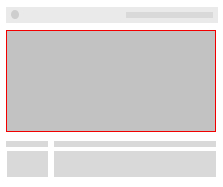
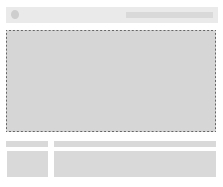
(admin ui):section creation part doing

Changed region(s): [[0.0269, 0.1604, 0.9686, 0.7219]]

diff --git a/frontend/src/admin/features/ui/formSchemas/BannerImages.jsx b/frontend/src/admin/features/ui/formSchemas/BannerImages.jsx
@@ -1,36 +1,69 @@
-import { useRef } from "react";
+import { useRef, useState } from "react";
 
-const BannerImages = () => {
+const BannerImages = ({ handleFormInput }) => {
   let inputRef = useRef(null);
   let [previews, setPreviews] = useState([]);
+  let [selectedPreview, setSelectedPreview] = useState(null);
 
   const triggerInput = () => {
     inputRef.current.click();
   };
   const fileChange = (e) => {
     let files = e.target.files;
-    setPreviews(() => {
-        Array.from(files)
-    })
+    let image_previews = Array.from(files).map((file) =>
+      URL.createObjectURL(file)
+    );
+    setPreviews((previews) => [...previews, ...image_previews]);
+    setSelectedPreview(image_previews[0]);
+    handleFormInput(e);
   };
   return (
-    <div className="flex-1">
+    <div className="flex flex-col gap-4 h-full">
       <input
         type="file"
         accept="image/*"
         multiple
         className="hidden"
         ref={inputRef}
+        name="backgroundImages"
         onChange={fileChange}
       />
-      <div className="h-full flex justify-center items-center border-3 border-dashed border-neutral-300 rounded-[.5rem] bg-neutral-200">
-        <button
-          className="a-text--button text-white bg-green-800"
-          onClick={triggerInput}
-        >
-          Add banner images for this section
-        </button>
+      <div className="flex h-[20rem] justify-center items-center border-3 border-dashed border-neutral-300 rounded-[.5rem] bg-neutral-200">
+        {selectedPreview ? (
+          <img
+            src={selectedPreview}
+            alt="preview image"
+            className="w-full h-full object-cover"
+          />
+        ) : (
+          <button
+            className="a-text--button text-white bg-green-800"
+            onClick={triggerInput}
+          >
+            Add banner images for this section
+          </button>
+        )}
       </div>
+      {selectedPreview && (
+        <div className="space-y-2">
+          <div className="a-text--label capitalize">Selected Banner Images</div>
+          <div className="flex flex-wrap items-center gap-2 bg-neutral-200 p-2">
+            {previews.map((preview, index) => (
+              <div className="relative">
+                <img
+                  src={preview}
+                  alt="banner images"
+                  className="w-[8rem] h-[8rem] object-cover hover:translate-x-[.2rem] transition-transform cursor-pointer"
+                  onClick={() => setSelectedPreview(preview)}
+                />
+                {preview === selectedPreview && (
+                  <div className="absolute inset-0 bg-black/40" />
+                )}
+              </div>
+            ))}
+          </div>
+        </div>
+      )}
     </div>
   );
 };

diff --git a/frontend/src/admin/features/ui/NewSection.jsx b/frontend/src/admin/features/ui/NewSection.jsx
@@ -7,14 +7,18 @@ import {
 import BannerForm from "./formSchemas/BannerForm";
 
 const NewSection = ({ config }) => {
-  let { section, handleSectionType, handleFormInput } = config;
+  let { section, handleSectionType, handleFormInput, createSection } = config;
   return (
-    <Accordion type="single" collapsible className="a-section--box !py-[.2rem]">
+    <Accordion
+      type="single"
+      collapsible
+      className="a-section--box !py-[.2rem] h-full"
+    >
       <AccordionItem value="item-1">
         <AccordionTrigger className="a-text--section">
           Add new home section
         </AccordionTrigger>
-        <AccordionContent className=" flex flex-col gap-[2.5rem] border p-4 rounded-[.5rem] mb-4">
+        <AccordionContent className="flex flex-col gap-[2.5rem] border p-4 rounded-[.5rem] mb-4">
           <div className="grid grid-cols-3 gap-4">
             <div className="space-y-1">
               <div className="a-text--label">Section type</div>
@@ -37,11 +41,18 @@ const NewSection = ({ config }) => {
             </div>
           </div>
 
-          {section?.section_type === "banner" ? (
+          {/* section form */}
+          {section?.section_type === "banner" && (
             <BannerForm section={section} handleFormInput={handleFormInput} />
-          ) : (
-            <></>
           )}
+
+          {/* submit button */}
+          <button
+            className="self-end a-text--button bg-[#0078d4] hover:bg-[#148ae5] transition-colors text-white"
+            onClick={createSection}
+          >
+            Create Section
+          </button>
         </AccordionContent>
       </AccordionItem>
     </Accordion>

diff --git a/frontend/src/admin/features/ui/useHomeUI.js b/frontend/src/admin/features/ui/useHomeUI.js
@@ -1,25 +1,37 @@
-import { useState } from "react";
+import { useEffect, useState } from "react";
 import getSectionData from "./formSchemas/utils/getSectionData";
 
 const useHomeUI = () => {
   const [sections, setSections] = useState([]);
   const [section, setSection] = useState(getSectionData("banner"));
 
+  useEffect(() => {
+    console.log("section data:", section);
+  }, [section]);
+
   // handle section type
   const handleSectionType = (event) => {
-    setSection(getSectionData(event.target.value))
+    setSection(getSectionData(event.target.value));
   };
 
   // handle form input
   const handleFormInput = (event) => {
-    let { name, value } = event.target;
+    let { name, value, files } = event.target;
     setSection((prev) => ({
       ...prev,
-      [name]: value,
+      [name]: files ? files : value,
     }));
   };
 
-  return { sections, section, handleSectionType, handleFormInput };
+  const createSection = () => {};
+
+  return {
+    sections,
+    section,
+    handleSectionType,
+    handleFormInput,
+    createSection,
+  };
 };
 
 export default useHomeUI;

diff --git a/frontend/src/admin/features/ui/formSchemas/BannerForm.jsx b/frontend/src/admin/features/ui/formSchemas/BannerForm.jsx
@@ -5,7 +5,7 @@ import getLayouts from "./utils/getLayouts";
 const BannerForm = ({ section, handleFormInput }) => {
   let layouts = getLayouts(section.section_type);
   return (
-    <div className="flex h-full gap-8">
+    <div className="flex gap-8">
       <div className="space-y-4 w-2/6">
         <div className="a-text--label">Section Layout</div>
         <div className="flex gap-4">
@@ -32,7 +32,9 @@ const BannerForm = ({ section, handleFormInput }) => {
         <div className="a-text--label">
           {section.layout !== "1" ? "Banner Images" : "Banner Image"}
         </div>
-        {section.layout !== "1" && <BannerImages />}
+        {section.layout !== "1" && (
+          <BannerImages handleFormInput={handleFormInput} />
+        )}
         {section.layout === "1" && <BannerImage />}
       </div>
     </div>

diff --git a/backend/controllers/productController.js b/backend/controllers/productController.js
@@ -20,7 +20,6 @@ export const validateSKU = async (req, res) => {
 export const createProduct = async (req, res) => {
   console.log("parsed data", JSON.parse(req.body.data));
   console.log("req.files:", req.files);
-  // do from here (hint: upload images to backend. frontend data is coming!)
   let { general_data, sections, variants, category } = req.body;
   // structuring sections
   let new_sections = Object.values(

diff --git a/backend/routers/sectionRouter.js b/backend/routers/sectionRouter.js
@@ -1,0 +1,7 @@
+import { createSection } from "../controllers/sectionController.js";
+import express from "express";
+import upload from "../middlewares/multer.js";
+
+const router = express.Router();
+
+router.post("/sections", upload.any(), createSection);

diff --git a/backend/controllers/sectionController.js b/backend/controllers/sectionController.js
@@ -1,0 +1,5 @@
+import { Section, Banner, Listing } from "../models/sectionModel.js";
+
+export const createSection = async (req, res) => {
+  console.log("section creation route request body:", req.body);
+};

diff --git a/backend/models/sectionModel.js b/backend/models/sectionModel.js
@@ -15,6 +15,7 @@ let Banner = Section.discriminator(
   new Schema({
     layout: String,
     backgroundImage: String,
+    backgroundImages: [String],
     ctaLink: String,
   })
 );
